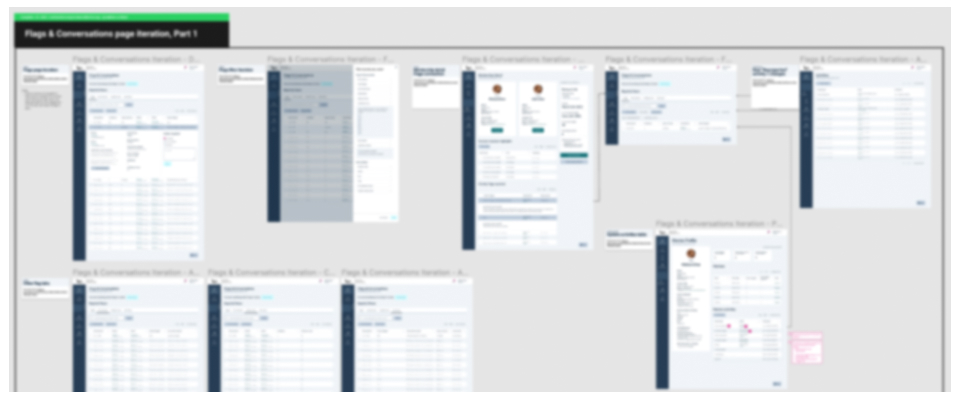
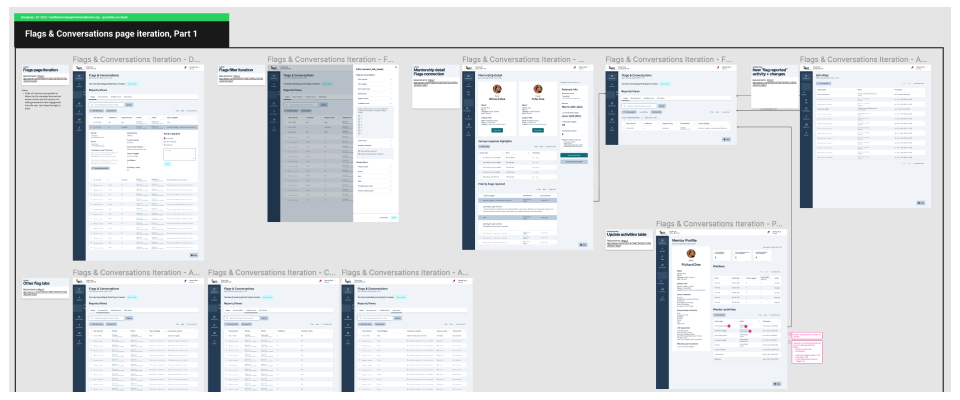
update partner experience case study

diff --git a/_posts/2023-09-17-MC-partnerexprefresh.md b/_posts/2023-09-17-MC-partnerexprefresh.md
@@ -18,11 +18,11 @@ theme: Case Study
 
 ## Project Synopsis
 
-Mentor Collective is an organization dedicated to facilitating student connections and bridging the equity gap in post-secondary education. To accomplish this mission, Mentor Collective developed a student engagement platform. This SaaS platform is designed to cultivate a nurturing community through peer-mentorship while providing higher-ed institutions with timely insights into the evolving needs of students during pivotal moments in their academic journey.
+Mentor Collective is an organization dedicated to facilitating student connections and bridging the equity gap in higher-education. To accomplish this mission, Mentor Collective developed a student engagement platform. This SaaS platform is designed to cultivate a nurturing community through peer-mentorship while providing higher-ed institutions with timely insights into the evolving needs of students during pivotal moments in their academic journey.
 
-Higher-ed administrators, referred to as partners, have access to a dashboard to manage their mentorship initiatives. While the original partner experience was suitable during Mentor Collective's inception, the company's rapid evolution underscored the need for a comprehensive design overhaul. The goal was not just to modernize, but also to transform it into a user-centric, accessible platform with enhanced feature capabilities.
+Higher-ed administrators, referred to as "partners", have access to a dashboard to manage mentorship initiatives at their institution. While the original partner experience was suitable during Mentor Collective's inception, the company's rapid evolution underscored the need for a comprehensive design overhaul. The goal was not just to modernize, but also to transform it into a user-centric, accessible platform with enhanced feature capabilities.
 
-As the Senior Product Designer, I led the end-to-end product design process from user research and ideation to final delivery, ensuring a user-centric and visually compelling product. My primary tools for this project were:
+As the Senior Product Designer, I led the end-to-end product design process from user research and ideation to final delivery. My primary tools for this project were:
 - Dovetail to document our research
 - Whimsical for brainstorming and wireframing
 - Figma for both low- and high-fidelity UI design
@@ -38,11 +38,11 @@ The project started in the summer of 2021. A beta version was rolled out to a se
 
 As Mentor Collective experienced rapid growth, several challenges emerged: scalability concerns, accessibility compliance, and gaps in user insights.
 
-The initial MVP state of the partner dashboard was under strain. Both its performance and features required improvements to ensure the product could scale seamlessly with our expanding user base.
+The initial MVP state of the partner dashboard was under strain. Both its performance and features required improvements to ensure the product could scale seamlessly to meet the need of our expanding user base.
 
-Beyond fulfilling commitments from recent contracts, the team also wanted to redesign the dashboard to comply with WCAG AA standards. We aimed to provide an enjoyable user experience for everyone.
+Beyond fulfilling commitments from recent contracts, the team also wanted to redesign the partner experience to comply with WCAG AA standards. We aimed to provide an enjoyable user experience for everyone.
 
-When we started the project, our team faced a significant challenge: limited insight into how users interacted with the product. For a data-driven team like ours, understanding users' needs, pain points, and usage patterns was crucial for any meaningful improvement.
+However, before starting this project, our team faced a significant challenge: limited insight into how users interacted with the product. For a data-driven team like ours, understanding users' needs, pain points, and usage patterns was crucial for any meaningful improvement.
 
 
 ## User-Centric Discovery
@@ -62,20 +62,28 @@ To process and document our research, I used Dovetail, a collaborative user feed
 
 ### Key Takeaways
 
-- Partners faced challenges when trying to export data from the dashboard. While they often needed to incorporate sections of data into their BI tool for advanced analysis, their only recourse was to request this information from account managers. This introduced undue friction, especially because the data was readily available in our system but not directly accessible to partners. This lack of direct download capability deterred them from logging in, decreasing user engagement with our product.
+__Barriers to export data__: Partners faced challenges when trying to export data from the dashboard. While they often needed to incorporate sections of data into their BI tool for advanced analysis, their only recourse was to request this information from account managers. This introduced undue friction, especially because the data was readily available in our system but not directly accessible to partners. This lack of direct download capability deterred them from logging in, decreasing user engagement with our product.
 
-- Quick data checks or "at-a-glance" views, which partners used for reporting to their financial decision-makers, were difficult to perform. This data was available in our system, but once again, only account managers had access to this information. This issue also negatively affected user engagement.
+__Lack of “At-a-glance” data view__: Quick data checks or "at-a-glance" views, which partners used for reporting to their financial decision-makers, were difficult to perform. This data was available in our system, but once again, only account managers had access to this information. This issue also negatively affected user engagement.
 
-- The dashboard only displayed aggregated “all-time” data. However, our partners were interested in observing data trends over specific time frames and wanted detailed breakdowns segmented by student populations to better understand their students' journeys and needs.
+__Need for disaggregated and over time data__: The dashboard only displayed aggregated “all-time” data. However, our partners were interested in observing data trends over specific time frames and wanted detailed breakdowns segmented by student populations to better understand their students' journeys and needs.
 
 Collectively, these insights underscored the following needs:
-- Partners wanted a more hands-on approach in managing their mentorship initiatives by directly accessing the data the platform generated.
+> Partners wanted a more hands-on approach in managing their mentorship initiatives by directly accessing the data the platform generated.
 
 The initial partner experience was designed with the account manager as the conduit of data communication, which temporarily met the needs of users given the MVP nature of the platform. However, over time, user needs evolved, and our research highlighted the need for a more hands-on approach.
 
 After sharing these findings with my Product Manager, we defined a clear objective to guide the design phase. We articulated this objective as a user story:
 
-> “As a point person (partner interacting with the dashboard), I want to continuously monitor the impact of, and discern trends within, the mentorship program for specific students and student populations. This information helps me in directing my student support initiatives. However, aside from student alerts (Flags), the dashboard primarily showcases 'all time' metrics for the entire program. This makes me feel the dashboard doesn’t offer timely, actionable insights, rendering frequent checks redundant.”
+> As a point person,<br/> 
+I want to continuously monitor the impact of, and discern trends within, the mentorship program for specific students and student populations.<br/>
+This information helps me in directing my student support initiatives.<br/>
+However, aside from student alerts (Flags), the dashboard primarily showcases 'all time' metrics for the entire program.<br/>
+This makes me feel the dashboard doesn’t offer timely, actionable insights, rendering frequent checks redundant.”
+
+To facilitate conversation and transparency around our work to internal stakeholders, I crafted a storyboard showcasing this user story:
+
+{% include lazy-image.html src="/images/illustration-partner-experience-mentor-collective-01-bis.png" alt="Storyboard telling a story around the partner's pain point" caption="Storyboard helping convey the user's pain point to internal stakeholders" figClass="" %}
 
 
 ## Design Process
@@ -83,44 +91,79 @@ After sharing these findings with my Product Manager, we defined a clear objecti
 With these learnings in hand, I switched to the design phase, here’s a breakdown of my process:
 
 ### Understanding the current state of the product
-My starting point was diving deep into the existing dashboard to learn its systems. Having been designed by a design contractor during the company's early stage, there was a knowledge gap within the team about this part of the product. This step was pivotal in understanding both its strengths and the areas needing improvements.
+My starting point was diving deep into the existing product to learn its systems. Having been designed by a design contractor during the company's early stage, there was a knowledge gap within the team about this part of the product. This step was pivotal in understanding both its strengths and the areas needing improvements.
 
 ### From Challenge to Creativity: The Brainwriting Session
 With the main user need identified and a better knowledge of the current product, I initiated a remote brainwriting exercise using Whimsical and “How Might We” questions to facilitate the flow of ideas.
 
-Recognizing the value of diverse perspectives, I invited internal team members who interact with our users at various stages of their journey. This eclectic group comprised a salesperson, two account managers, an engineer, and two members from the product team: the Director of Curriculum and the Product Manager. The exercise ensured a rich pool of ideas, drawing from each participant's unique experiences and insights with our users.
+Recognizing the value of diverse perspectives, I invited internal team members who interact with our users at various stages of their journey. This  group comprised a salesperson, two account managers, an engineer, and two members from the product team: the Director of Curriculum and the Product Manager. The exercise ensured a rich pool of ideas, drawing from each participant's unique experiences and insights with our users.
 
 {% include lazy-image.html src="/images/illustration-partner-experience-mentor-collective-02.jpg" alt="Screenshot showing brainstorming notes" caption="Brainwriting notes in Whimsical. *Illustrations purposely blurred due to confidentiality restrictions*" figClass="" %}
 
 ### From Insight to Ideation
-With the initial brainstorming phase completed, I transitioned to several rounds of ideation and sketching. I laid out a journey map to help us visualize the paths our user would take to accomplish certain tasks and crafted wireframes of the new partner experience.
+With the initial brainstorming phase completed, I transitioned to several rounds of ideation and sketching. 
+
+I laid out a journey map to help us visualize the paths our user would take to accomplish certain tasks and crafted wireframes of the new partner experience. To guide my process, I asked myself questions:
+- What data points currently in our system could be surfaced to the user?
+- How to display these data points in a way that make sense to the user?
+- What layouts should be used to comprehensively present information?
+- etc...
+
 Leveraging Whimsical, I collaborated seamlessly with my Product Manager and Lead Engineer to gather their feedback.
 
 {% include lazy-image.html src="/images/illustration-partner-experience-mentor-collective-03.jpg" alt="Screenshot showing ideation work in Whimsical" caption="User Journey Map and Wireframes in Whimsical. *Illustrations purposely blurred due to confidentiality restrictions*" figClass="" %}
 
-### Wireframe Reviews with the Team
 I then reconnected with the internal team members previously interviewed to walk them through the wireframes. Presenting the wireframes to them served a dual purpose:
 - ensuring our direction aligned with their insights
 - confirming that our solutions addressed their highlighted pain points
 
-### Advancing to High-fidelity UIs
-With increased confidence in our direction, I transitioned into the next design phase. Using Figma, the wireframes evolved into detailed, high-fidelity user interfaces, reflecting both aesthetics and functionality.
+### Guiding with Principles
 
-- At the heart of these designs was a comprehensive dashboard page, detailed with data visualization charts
-- To account for the large datasets of our users, I designed a robust data table, equipped with extensive filtering capabilities, ensuring effective management of participants, mentorships, and program activities
-- An alert and notification system was improved to allow partners to more easily identify students in need of immediate support
-- A participant profile was showcasing individual data with data widgets and filterable tables
-- An export feature was added to every key touchpoints throughout the dashboard to allow partners to quickly retrieve the data they are looking for
-- User data revealed that the vast majority of our users accessed our platform via desktop. Given the project's timeline and budget constraints, I chose to ensure the mobile experience was functional but not fully optimized
+With increased confidence in our direction, I transitioned into the next design phase. Before jumping into high-fidelity user interfaces in Figma, I elected some design principles that would serve as guiding principles:
 
-{% include lazy-image.html src="/images/illustration-partner-experience-mentor-collective-04.jpg" alt="Screenshot showing high-fidelity user interfaces in Figma" caption="High-fidelity UIs in Figma. *Illustrations purposely blurred due to confidentiality restrictions*" figClass="" %}
+__Keep it clean__: The primary goal of this project is to improve visibility into a program’s data, at scale. Maintaining a clean, minimalist look would allow the partner experience to be easily scaled up in the future.
 
-{% include lazy-image.html src="/images/illustration-partner-experience-mentor-collective-04-bis.jpg" alt="Screenshot showing before and after of dashboard page" caption="Before / After of the dashboard page of the partner experience. *Illustrations purposely blurred due to confidentiality restrictions*" figClass="" %}
+__Respect user’s time__: Our research informed us that user’s cognitive load is fairly high throughout their workday and their time is precious. The designs need to strive for unambiguity and be mindful of the user needs.
+
+__Leverage the design system__: The designs should lean on the design system recently introduced to maximize accessibility, scalability and streamline implementation.
+
+### A Modernized and Enhanced Partner Experience
+
+Before showcasing some of the solutions implemented in this project, here is what the partner experience looked like before this project:
+
+{% include lazy-image.html src="/images/illustration-partner-experience-mentor-collective-08-bis.jpg" alt="Screenshot showcasing user interfaces of the initial partner experience" caption="Screenshots showcasing the partner experience before this project" figClass="" %}
+
+<br/> All the research and rounds of low-fi ideation culminated in a series of comprehensive, accessible and user-centric design solutions:
+
+__Program Intelligence Chart__: Expand access to data and enhance visualization of this data in the dashboard.
+
+{% include lazy-image.html src="/images/illustration-partner-experience-mentor-collective-08.jpg" alt="Screenshot showing high-fidelity user interfaces in Figma" caption="" figClass="" %}
+
+<br/><br/>
+__Filters and enhanced tables__: Allow data to be filtered and display in clear data tables to account for larger datasets and provide users with tool to drill down on a specific student population.
+
+{% include lazy-image.html src="/images/illustration-partner-experience-mentor-collective-09.jpg" alt="Screenshot showing high-fidelity user interfaces in Figma" caption="" figClass="" %}
+
+<br/><br/>
+__Export options__: A brand new “Exports” page and made sure to provide export CTAs throughout key touchpoints in the partner experience.
+
+{% include lazy-image.html src="/images/illustration-partner-experience-mentor-collective-10.jpg" alt="Screenshot showing high-fidelity user interfaces in Figma" caption="" figClass="" %}
+
+<br/><br/>
+__Layout & navigation changes__: Modernize the layout to make information on each page more accessible. Ensure the design is responsive to accommodate various desktop and tablet sizes, as revealed by the quantitative data.
+
+{% include lazy-image.html src="/images/illustration-partner-experience-mentor-collective-11.jpg" alt="Screenshot showing high-fidelity user interfaces in Figma" caption="" figClass="" %}
+
+<br/><br/>
+__Miscellaneous tweaks__: Update brand identity, increase relevance of activities page, introduce in-app notification, modernize UI, ...
+
+
+{% include lazy-image.html src="/images/illustration-partner-experience-mentor-collective-04.jpg" alt="Screenshot showing high-fidelity user interfaces in Figma" caption="" figClass="" %}
 
 ### Drawing from the Design System
 In crafting these refined UIs, I leaned heavily on a <a href="https://mathieufortune.github.io/MC-designsystem.html" target="_blank">design system that I had recently championed at Mentor Collective</a>, seamlessly integrating its elements — from the accessible color palette and clear typography to the streamlined layout and components — into the dashboard's new look.
 
-{% include lazy-image.html src="/images/illustration-partner-experience-mentor-collective-05.jpg" alt="Screenshot showing design system in Figma" caption="Excerpt of Design System in Figma. *Illustrations purposely blurred due to confidentiality restrictions*" figClass="" %}
+{% include lazy-image.html src="/images/illustration-partner-experience-mentor-collective-05.jpg" alt="Screenshot showing design system in Figma" caption="Excerpts of the design system I championned at Mentor Collective" figClass="" %}
 
 ### Preparation for Implementation
 Upon completing the high-fidelity UIs, I consulted with the Product Manager and Engineering Lead, providing a video overview of the designs to streamline their work. 
@@ -131,7 +174,7 @@ Ensuring seamless transition to the implementation phase, I provided meticulous 
 
 Throughout the implementation phase, I regularly engaged in quality control tests, collaborating closely with engineers to guarantee accurate representation of my designs, functional integrity, and full accessibility (WCAG AA) compliance.
 
-{% include lazy-image.html src="/images/illustration-partner-experience-mentor-collective-06.jpg" alt="Screenshot showing design hand-off notes in Figma" caption="Design Hand-off Notes for engineers. *Illustrations purposely blurred due to confidentiality restrictions*" figClass="" %}
+{% include lazy-image.html src="/images/illustration-partner-experience-mentor-collective-06.jpg" alt="Screenshot showing design hand-off notes in Figma" caption="Early version of design hand-off notes provided to engineers" figClass="" %}
 
 
 ## Implementation and Launch
@@ -150,12 +193,12 @@ While many iterations focused on minor tweaks and refining UX copy, feedback fro
 
 Promptly acting on this feedback, I revisited the wireframes and adjusted the navigation and flow for the problematic feature. We then validated this new design with our internal stakeholders, progressed to high-fidelity UIs, and set clear requirements for our engineers. Following this process and re-releasing the feature to our beta users, we observed a marked decrease in both friction and user errors.
 
-{% include lazy-image.html src="/images/illustration-partner-experience-mentor-collective-07.jpg" alt="Screenshot showing design iteration in Figma" caption="Design iterations in Figma. *Illustrations purposely blurred due to confidentiality restrictions*" figClass="" %}
+{% include lazy-image.html src="/images/illustration-partner-experience-mentor-collective-07.jpg" alt="Screenshot showing design iteration in Figma" caption="Design iterations in Figma around the Flags page" figClass="" %}
 
 ### Beyond the Design: The Tangible Impact of Our Revamp
 Alongside introducing the beta of the redesigned partner experience, we integrated a new analytics tool to meticulously track pivotal KPIs and evaluate the project's impact. Metrics such as NPS, DAU, MAU, feature adoption rates, and average session duration were at the forefront of our monitoring, aiming to determine any improvements in user engagement and product stickiness.
 
-A few months following the full release, the results spoke volumes: _user engagement soared by a staggering 116%_. Beyond the hard data, invaluable feedback from our NPS surveys painted a vivid picture.
+A few months following the full release, the results spoke volumes: __user engagement soared by a staggering 116%__. Beyond the hard data, invaluable feedback from our NPS surveys painted a vivid picture.
 
 A partner from North Carolina A&T shared,
 > “Since working with Mentor Collective we're able to get those specific metrics and data, and we have the dashboard – which we absolutely love – to see exactly what's going on and tailor specific programs or initiatives to be able to help the students."
